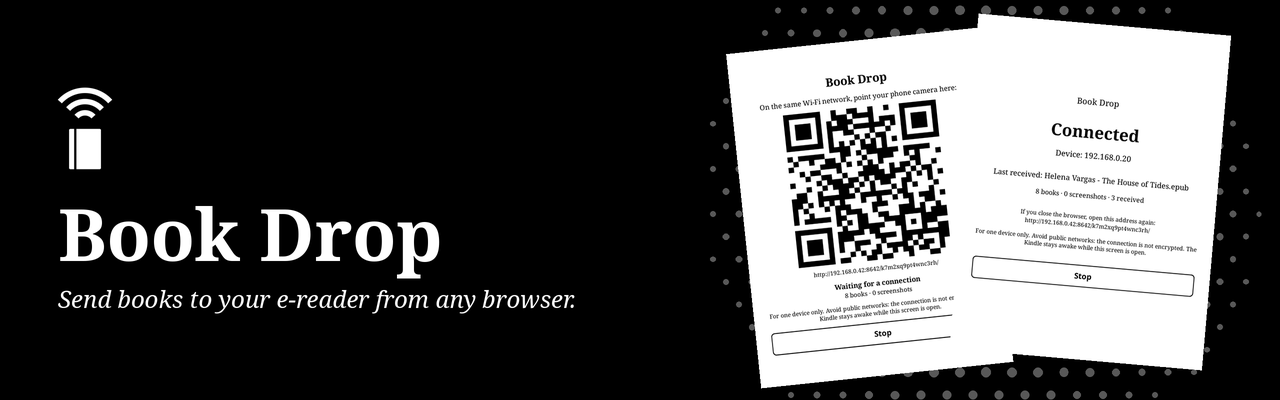
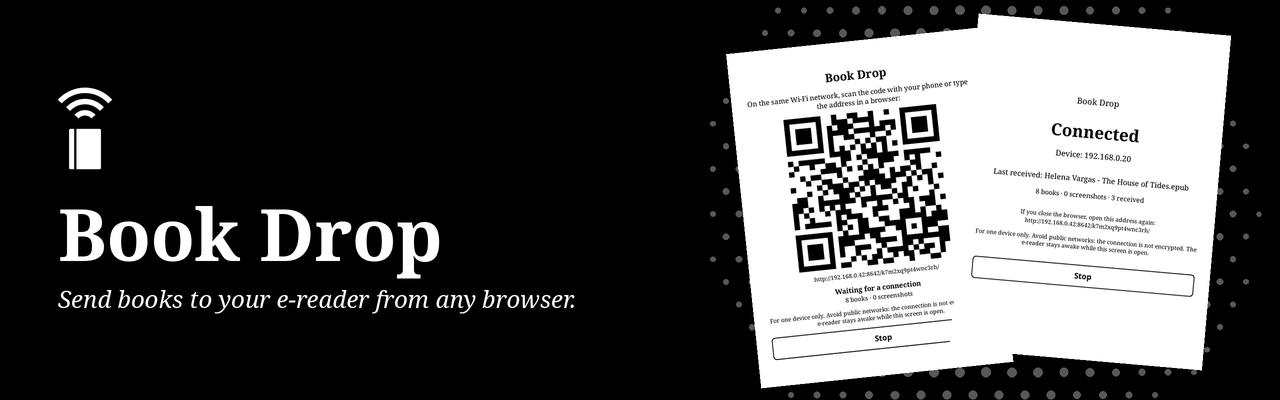
chore: release version 1.1.2 with improvements and fixes

Changed region(s): [[0.5938, 0.18, 0.75, 0.9], [0.7812, 0.6, 0.875, 0.63], [0.875, 0.63, 0.9062, 0.66]]

diff --git a/tools/make_brand_art.py b/tools/make_brand_art.py
@@ -1,4 +1,5 @@
-"""Draws the icon, the README banner and the GitHub social preview, or with `screensaver` the full-screen sleep screen cover in assets/.
+"""Draws the icon, the README banner and the GitHub social preview, in English and in Portuguese (the copies ending
+in _pt), or with `screensaver` the full-screen sleep screen cover in assets/.
 
 Usage: KOREADER_DIR=<desktop KOReader> python3 -I tools/make_brand_art.py [screensaver]
 Run tools/koreader/render_readme_screens.sh first. Needs Pillow, and the Noto fonts that come with KOReader.
@@ -13,8 +14,21 @@ ROOT = os.path.join(os.path.dirname(os.path.abspath(__file__)), "..")
 BLACK, WHITE = 0, 255
 ICON_SIZE = 1024
 SUPERSAMPLE = 3
-TAGLINE = "Send books to your e-reader from any browser."
-DETAILS = ["Over your local Wi-Fi, with no app to install.", "For KOReader. Approved on the device, one at a time."]
+# English for README.md and GitHub, Portuguese for README_pt.md and posts in Portuguese.
+TEXTS = {
+    "en": {
+        "tagline": "Send books to your e-reader from any browser.",
+        "details": ["Over your local Wi-Fi, with no app to install.", "For KOReader. Approved on the device, one at a time."],
+        "screenshots": os.path.join("docs", "screenshots"),
+        "suffix": "",
+    },
+    "pt": {
+        "tagline": "Envie livros ao seu leitor por qualquer navegador.",
+        "details": ["Pela sua rede Wi-Fi local, sem instalar nenhum app.", "Para o KOReader. Aprovado no leitor, um aparelho por vez."],
+        "screenshots": os.path.join("docs", "screenshots", "pt"),
+        "suffix": "_pt",
+    },
+}
 
 
 class Canvas:
@@ -78,8 +92,8 @@ def halftone(image, cx, cy, radius, spacing):
         row += 1
 
 
-def place_screen(image, name, center, height, angle):
-    screen = Image.open(os.path.join(ROOT, "docs", "screenshots", name + ".png")).convert("L")
+def place_screen(image, name, center, height, angle, folder=TEXTS["en"]["screenshots"]):
+    screen = Image.open(os.path.join(ROOT, folder, name + ".png")).convert("L")
     screen = screen.resize((round(height * screen.width / screen.height), height), Image.LANCZOS)
     framed = Image.new("L", (screen.width + 12, screen.height + 12), WHITE)
     framed.paste(screen, (6, 6))
@@ -87,19 +101,19 @@ def place_screen(image, name, center, height, angle):
     image.paste(rotated.getchannel("L"), (round(center[0] - rotated.width / 2), round(center[1] - rotated.height / 2)), rotated.getchannel("A"))
 
 
-def draw_header(width, height, fonts, icon, layout):
+def draw_header(width, height, fonts, icon, layout, texts):
     k = 2
     image = Image.new("L", (width * k, height * k), BLACK)
     middle, screen_height, offset, text = layout["middle"], layout["screen_height"], layout["offset"], layout["text"]
     halftone(image, middle * k, height // 2 * k, round(layout["halftone"] * k), 26 * k)
-    place_screen(image, "device_waiting", ((middle - offset) * k, (height // 2 + 8) * k), screen_height * k, 6)
-    place_screen(image, "device_connected", ((middle + offset) * k, (height // 2 - 8) * k), screen_height * k, -5)
+    place_screen(image, "device_waiting", ((middle - offset) * k, (height // 2 + 8) * k), screen_height * k, 6, texts["screenshots"])
+    place_screen(image, "device_connected", ((middle + offset) * k, (height // 2 - 8) * k), screen_height * k, -5, texts["screenshots"])
     margin = 58
     icon_size = round(96 * text)
     title_size = round(72 * text)
     tagline_size = round(24 * text)
     details_size = round(19 * text)
-    details = layout.get("details")
+    details = texts["details"] if layout.get("details") else None
     block = icon_size + title_size + tagline_size + round(44 * text)
     if details:
         block += round(details_size * 1.45 * len(details)) + round(22 * text)
@@ -112,7 +126,7 @@ def draw_header(width, height, fonts, icon, layout):
     d = ImageDraw.Draw(image)
     d.text((margin * k, y * k), "Book Drop", font=ImageFont.truetype(fonts["bold"], title_size * k), fill=WHITE)
     y += title_size + round(26 * text)
-    d.text((margin * k, y * k), TAGLINE, font=ImageFont.truetype(fonts["italic"], tagline_size * k), fill=WHITE)
+    d.text((margin * k, y * k), texts["tagline"], font=ImageFont.truetype(fonts["italic"], tagline_size * k), fill=WHITE)
     y += tagline_size + round(30 * text)
     if details:
         font = ImageFont.truetype(fonts["regular"], details_size * k)
@@ -158,9 +172,11 @@ def main():
         print("Image generated in assets/screensaver.png")
         return
     icon.save(os.path.join(brand, "icon.png"), optimize=True)
-    draw_header(1280, 400, fonts, icon, {"middle": 980, "screen_height": 330, "offset": 110, "text": 1, "halftone": 280}).save(os.path.join(brand, "banner.png"), optimize=True)
-    draw_header(1280, 640, fonts, icon, {"middle": 985, "screen_height": 430, "offset": 112, "text": 1.05, "halftone": 360, "details": DETAILS}).save(os.path.join(ROOT, "docs", "social-preview.png"), optimize=True)
-    print("Images generated in docs/brand and docs/social-preview.png")
+    for texts in TEXTS.values():
+        suffix = texts["suffix"]
+        draw_header(1280, 400, fonts, icon, {"middle": 980, "screen_height": 330, "offset": 110, "text": 1, "halftone": 280}, texts).save(os.path.join(brand, "banner" + suffix + ".png"), optimize=True)
+        draw_header(1280, 640, fonts, icon, {"middle": 985, "screen_height": 430, "offset": 112, "text": 1.05, "halftone": 360, "details": True}, texts).save(os.path.join(ROOT, "docs", "social-preview" + suffix + ".png"), optimize=True)
+    print("Images generated in docs/brand and docs/social-preview.png, with the Portuguese copies ending in _pt")
 
 
 main()

diff --git a/docs/design.md b/docs/design.md
@@ -36,7 +36,7 @@ None of these layers makes the connection fully secure: there is no HTTPS, so so
 | Limits | Headers up to 8 KB, one upload at a time, and 30 seconds without progress end a connection. The device in use (approved, or waiting for approval) has 6 connections of its own; the other addresses share 6 more, at most 2 each, so they can never take its places. A blocked address is dropped as soon as it connects. |
 | Strikes per address | 20 invalid requests block that address only, so someone else on the network cannot end the session. The approved device is never blocked. |
 | Pages | Escaped names, a restrictive `Content-Security-Policy`, `nosniff`, and no cache except for covers. The only script is the upload one, served by the plugin, and the other pages work without it. |
-| Errors stay contained | An error while handling a request ends that connection only, so it cannot reach KOReader's interface loop. The error goes to KOReader's log, without the request, which carries the code. |
+| Errors stay contained | An error drawing the screen, which shows names and addresses from another device, gives way to a message without them, with the Close button, and stops the session. An error while handling a request ends that connection only, so it cannot reach KOReader's interface loop. The error goes to KOReader's log, without the request, which carries the code. |
 | After a crash | If KOReader crashes or quits with the screen open, the next start of KOReader closes the port (from `book_drop.firewall`), lets the device sleep again (from `book_drop.awake`, both in KOReader's settings folder) and removes temporary files (from `cache/book_drop.active`). A failure while opening the screen also stops the server, closes the port and lets the device sleep again. |
 
 ### Covers
@@ -104,7 +104,7 @@ book_drop.koplugin/
   - `sh tools/package.sh` builds the release package in `dist/`.
 - With `KOREADER_DIR` pointing to a desktop KOReader, before each release:
   - `tools/koreader/check_server.sh` starts the real server and tests it with `curl`: approval, integrity of downloads and uploads, covers, the zip, cut and simultaneous uploads, and attack attempts.
-  - `tools/koreader/check_all_sizes.sh` runs `tools/koreader/check_layout.lua` in four screen sizes: every state of the screen, in every language and with the longest texts, fits the height. With `OUTPUT_DIR`, it saves the screens.
+  - `tools/koreader/check_all_sizes.sh` runs `tools/koreader/check_layout.lua` in four screen sizes: every state of the screen, in every language and with the longest texts, fits the height; the refresh modes come in the expected order (a flash for each new layout and after eight updates without one); and an error planted while drawing a book name gives way to the message. With `OUTPUT_DIR`, it saves the screens.
   - `tools/koreader/run_headless.sh tools/koreader/fuzz_ui.lua`: random touches on every state of the screen and on the approval question, in every language.
   - `tools/koreader/run_headless.sh tools/koreader/check_rotation.lua`: the screen opens in portrait with KOReader in landscape and gives the rotation back on closing (cases in `rotation_cases.lua`).
   - `tools/koreader/run_headless.sh tools/koreader/check_sleep.lua`: nothing is painted or shown while the device sleeps, with a real session running (cases in `sleep_cases.lua`).
@@ -112,7 +112,7 @@ book_drop.koplugin/
   - `tools/koreader/run_headless.sh tools/koreader/check_screensaver.lua` checks when the plugin cover replaces the sleep screen image. With `OUTPUT_DIR`, it saves the resulting screen there.
   - `tools/koreader/run_emulator.sh` opens a window with the plugin.
   - `tools/koreader/render_readme_screens.sh` renders the device screens for the README. With `SERVE=600`, it also keeps a demo library online for 10 minutes, to capture the pages in a browser.
-- `python3 -I tools/make_brand_art.py` draws the icon, the banner and the social preview. With `screensaver` as argument it draws `assets/screensaver.png` instead, in the same style.
+- `python3 -I tools/make_brand_art.py` draws the icon, the banner and the social preview, in English and in Portuguese (`docs/brand/banner_pt.png` for `README_pt.md` and `docs/social-preview_pt.png` for posts in Portuguese), with the device screens of each language. With `screensaver` as argument it draws `assets/screensaver.png` instead, in the same style.
 
 The files `lan.lua`, `http_server.lua`, `awake.lua`, `portrait.lua`, `refresh.lua`, `sleep.lua`, `screensaver.lua`, the `run_*.sh`, `check_*.sh` and `check_*.lua` scripts that come from a pattern, `tools/package_lib.sh`, `tools/koreader/fuzz.lua` and the two workflows are shared with other plugins and start with a `Pattern` line: they are changed where the pattern lives, not here.
 

diff --git a/CHANGELOG.md b/CHANGELOG.md
@@ -1,5 +1,10 @@
 # Changelog
 
+## [1.1.2]
+
+- After a full refresh, the next update waits for it to end, so a tap right after a flash no longer leaves part of the screen white on a Kindle. The refresh mode is now chosen when the screen is painted, so the wait happens at the right moment and an update asked for during sleep no longer counts.
+- If the screen cannot be drawn (it shows names and addresses that come from another device), a message takes its place, with the Close button, and the transfer stops, instead of a screen that cannot be used.
+
 ## [1.1.1]
 
 - The module that keeps the e-reader awake, shared with other plugins, now also clears the marker its oldest versions kept in KOReader's cache folder after a crash. Book Drop never used that place, so nothing changes in use.

diff --git a/README_pt.md b/README_pt.md
@@ -1,5 +1,5 @@
 <p align="center">
-  <img src="docs/brand/banner.png" alt="Book Drop: envie livros para o seu leitor por qualquer navegador">
+  <img src="docs/brand/banner_pt.png" alt="Book Drop: envie livros ao seu leitor por qualquer navegador">
 </p>
 
 <p align="center">
